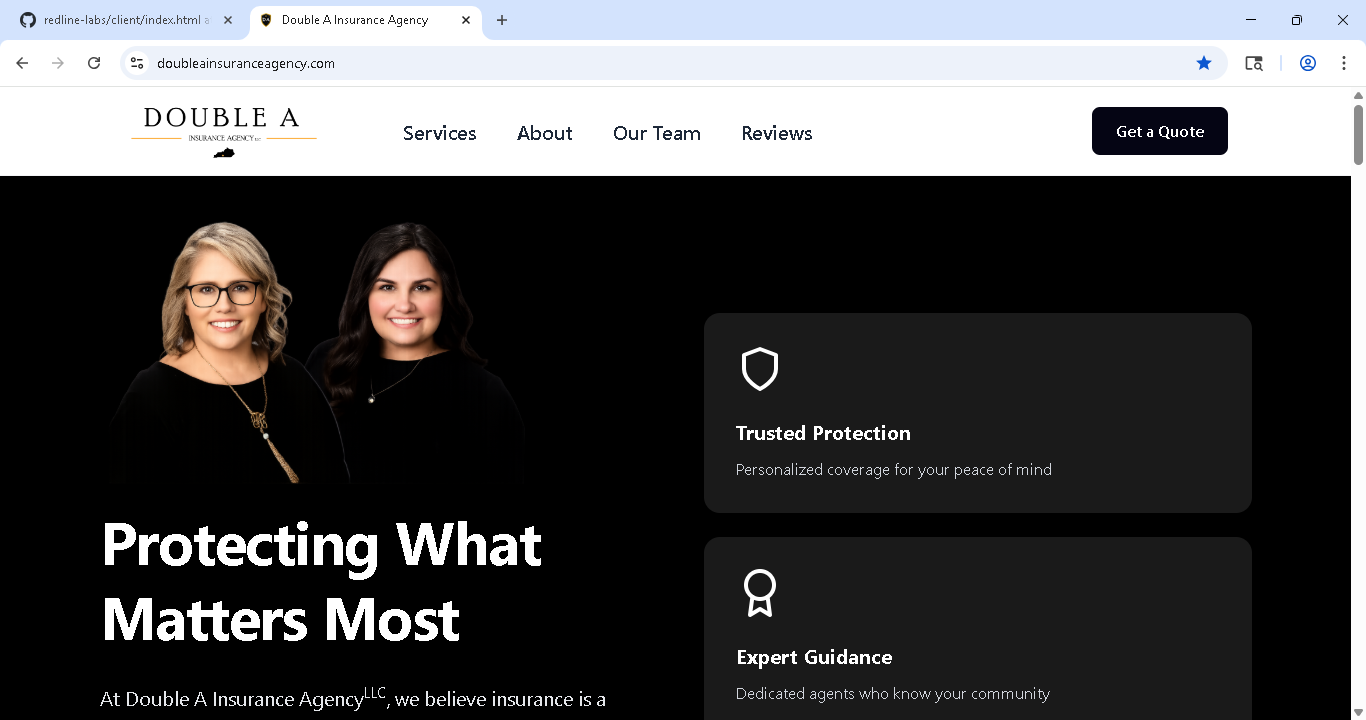
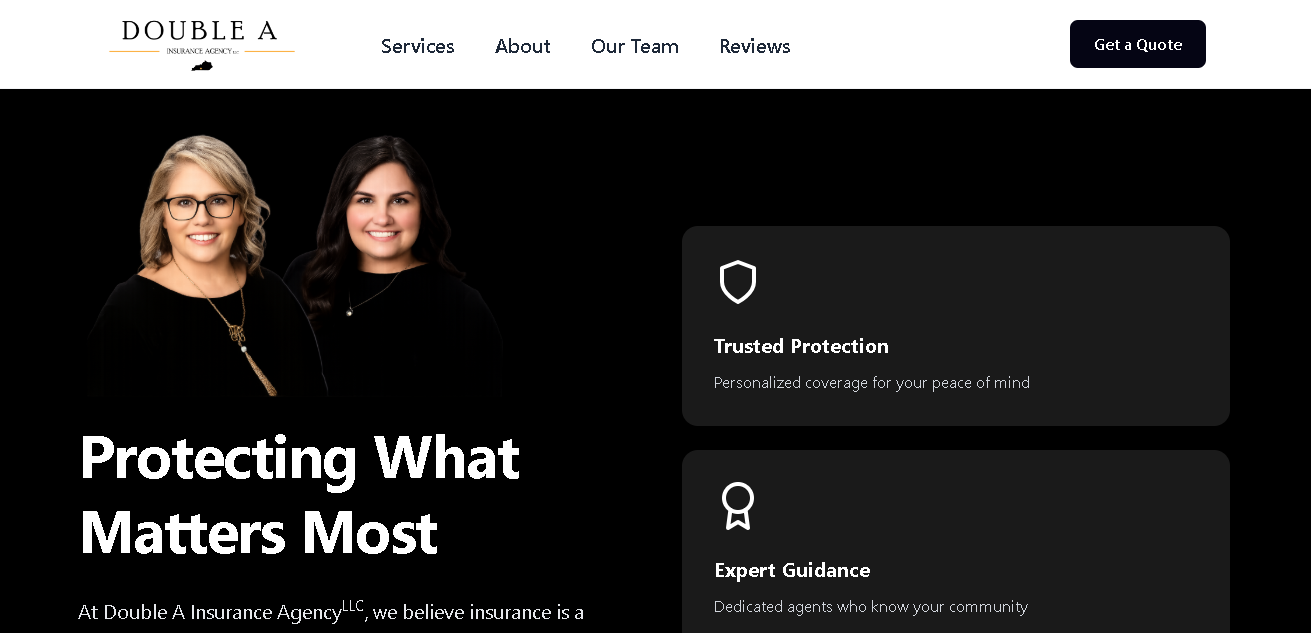
updated to optimize SEO title

diff --git a/client/index.html b/client/index.html
@@ -10,7 +10,7 @@
     <meta name="author" content="Double A Insurance Agency LLC" />
     <meta name="viewport" content="width=device-width, initial-scale=1.0" />
     <!-- Open graph tags -->
-    <meta property="og:title" content="Double A Insurance Agency | Independent insurance agency in Morgantown, Kentucky" />
+    <meta property="og:title" content="Double A Insurance Agency | Independent Insurance Agency" />
     <meta property="og:description" content="At Double A Insurance Agency, we treat every client like family - offering personalized insurance solutions and service you can trust for true peace of mind." />
     <meta property="og:type" content="website" />
     <meta property="og:url" content="https://doubleainsuranceagency.com">
